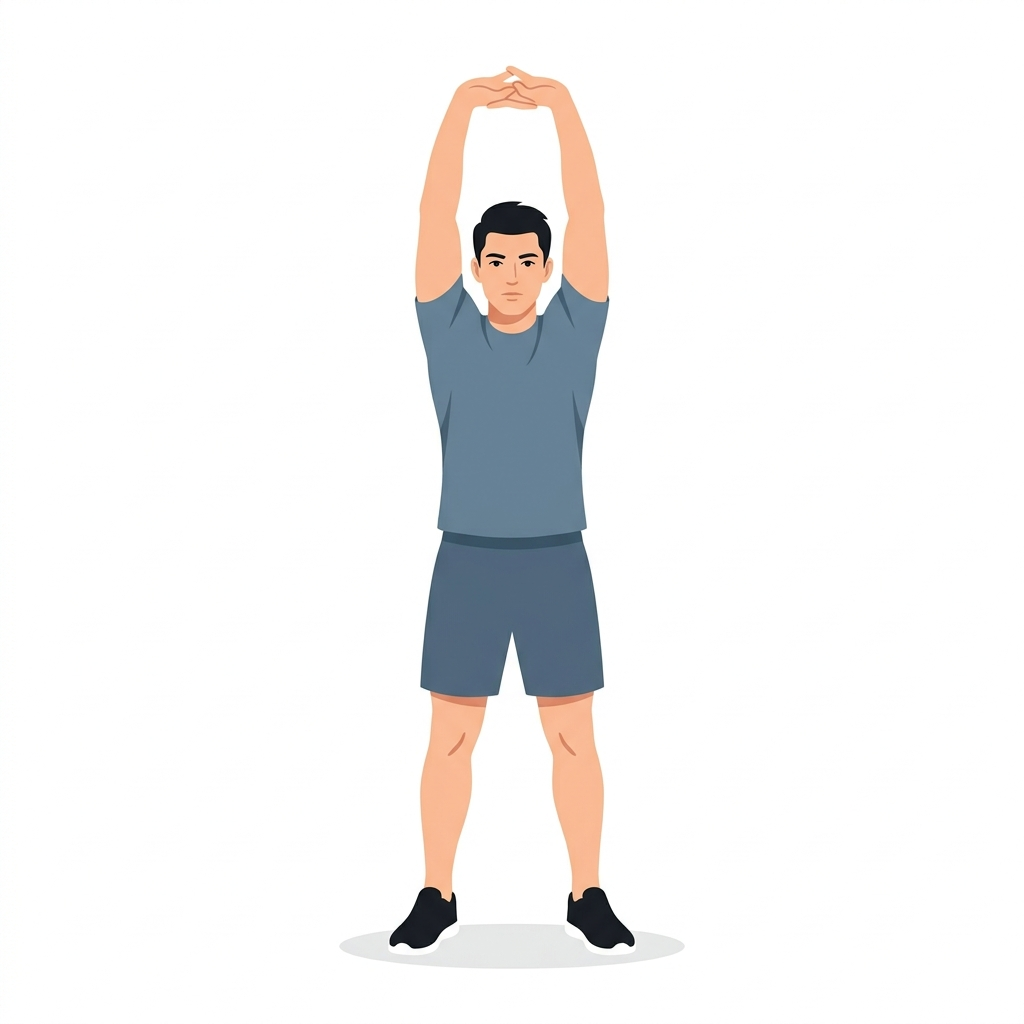
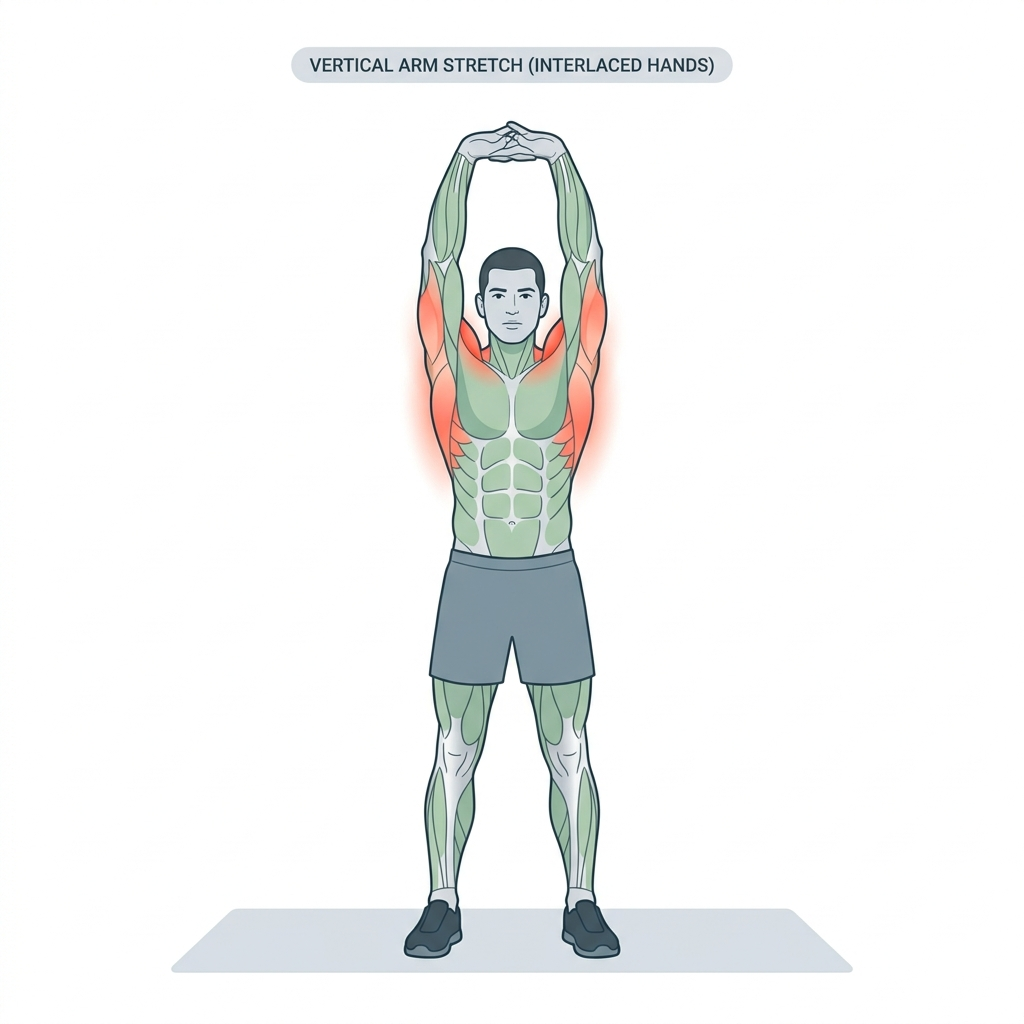
feat: complete overhaul of daily tips, relaxation cards UI, and restore anatomical asset ex-1

Changed region(s): [[0.1562, 0.0312, 0.8438, 0.9688]]

diff --git a/js/app.js b/js/app.js
@@ -16,181 +16,118 @@ document.addEventListener('DOMContentLoaded', () => {
   // ==========================================
   const DICAS_ERGONOMIA = [
     {
-      titulo: "Objetivo da Ergonomia",
-      desc: "A ergonomia tem como objetivo principal modificar as ferramentas, os móveis e o ambiente para que você trabalhe com conforto, segurança e eficiência, evitando dores e lesões.",
-      icon: "shield"
-    },
-    {
-      titulo: "O que é o Ergofisio?",
-      desc: "É um projeto desenvolvido pelo curso de fisioterapia com o foco principal de preservar a integridade física e mental dos colaboradores da UNIFG.",
-      icon: "activity"
-    },
-    {
-      titulo: "Cadeira Ergonômica",
-      desc: "O uso da cadeira ergonômica ajuda a reduzir a sobrecarga lombar durante a jornada laboral.",
-      icon: "armchair"
-    },
-    {
-      titulo: "Suporte para Notebook",
-      desc: "Ajustar a altura do monitor para ficar na linha dos olhos, e assim evitar a flexão da cervical e sobrecarga lombar.",
-      icon: "laptop"
-    },
-    {
-      titulo: "Suporte para os Pés",
-      desc: "Adicionar o apoio aos pés para garantir o retorno venoso, alinhamento adequado da coluna e quadril e evitar a compressão vascular.",
-      icon: "footprints"
-    },
-    {
-      titulo: "Mouse Pad e Teclado Pad",
-      desc: "Usar esses equipamentos evita a fadiga muscular e aumenta a estabilidade do punho.",
+      titulo: "Postura Neutra do Punho",
+      desc: "Evite manter o punho dobrado por muito tempo. O uso de mouse pad e teclado pad com apoio em gel ajuda a estabilizar o punho, prevenindo lesões.",
       icon: "keyboard"
     },
     {
-      titulo: "Alívio de Dores e Lesões",
-      desc: "Um dos grandes benefícios do alongamento é que ele alivia dores e previne lesões no seu dia a dia.",
-      icon: "heart"
-    },
-    {
-      titulo: "Alívio do Estresse",
-      desc: "Realizar alongamentos periodicamente alivia o estresse gerado pela rotina de trabalho.",
-      icon: "smile"
-    },
-    {
-      titulo: "Correção de Postura",
-      desc: "Fazer pausas ativas para se alongar corrige a postura e evita vícios posturais nocivos.",
-      icon: "accessibility"
-    },
-    {
-      titulo: "Redução da Rigidez",
-      desc: "O alongamento sistemático reduz a rigidez muscular, devolvendo a flexibilidade ao corpo.",
-      icon: "activity"
-    },
-    {
-      titulo: "Circulação Sanguínea",
-      desc: "Os exercícios fisioterapêuticos do Ergofisio melhoram a circulação sanguínea, oxigenando os músculos.",
-      icon: "refresh-cw"
-    },
-    {
-      titulo: "Redução do Cansaço",
-      desc: "Alongar-se ao longo da jornada laboral reduz significativamente o cansaço físico geral.",
-      icon: "zap"
-    },
-    {
-      titulo: "Mais Disposição",
-      desc: "A prática diária dos alongamentos do panfleto traz mais disposição para as suas atividades.",
-      icon: "sparkles"
-    },
-    {
-      titulo: "Prevenção de Tendinites",
-      desc: "A falta de ergonomia no trabalho pode levar a Lesões por Esforço Repetitivo (LER), como as dolorosas tendinites.",
-      icon: "alert-triangle"
-    },
-    {
-      titulo: "Prevenção de Bursites",
-      desc: "Trabalhar sem as adaptações adequadas no posto de trabalho pode causar bursites (LER).",
-      icon: "alert-triangle"
-    },
-    {
-      titulo: "Síndrome do Túnel do Carpo",
-      desc: "O esforço repetitivo sem o uso de mouse pad e teclado pad pode ocasionar a Síndrome do Túnel do Carpo.",
-      icon: "alert-circle"
-    },
-    {
-      titulo: "Lombalgia e Cervicalgia",
-      desc: "Sentar-se de forma incorreta ou sem suporte cervical sobrecarrega a coluna, gerando lombalgia e cervicalgia.",
-      icon: "shield-alert"
-    },
-    {
-      titulo: "Prevenção de Varizes",
-      desc: "Ficar longos períodos sem movimentar as pernas ou sem apoio para os pés pode gerar problemas circulatórios, como varizes.",
-      icon: "heart"
-    },
-    {
-      titulo: "Prevenção de Fadiga Visual",
-      desc: "Ajustar a altura da tela na linha dos olhos evita a fadiga visual e a flexão constante do pescoço.",
-      icon: "eye"
-    },
-    {
-      titulo: "Ansiedade e Depressão",
-      desc: "A falta de ergonomia e pausas saudáveis pode colaborar para transtornos psicológicos ocupacionais, como ansiedade e depressão.",
-      icon: "brain"
-    },
-    {
-      titulo: "Síndrome de Burnout",
-      desc: "Preservar a integridade física e mental é vital para evitar o esgotamento extremo ou Síndrome de Burnout.",
-      icon: "flame"
-    },
-    {
-      titulo: "Postura para Levantar Peso",
-      desc: "Ao levantar peso, dobre os joelhos e use a força das pernas mantendo a coluna totalmente ereta e a carga próxima ao corpo.",
-      icon: "arrow-up"
-    },
-    {
-      titulo: "Alinhamento Corporal de Pé",
-      desc: "Mantenha o alinhamento adequado dos ombros, pescoço e coluna durante a realização de atividades em pé.",
-      icon: "accessibility"
-    },
-    {
-      titulo: "Ajustes do Computador",
-      desc: "Ajuste seus móveis e ferramentas ergonômicas (como cadeira, monitor e suportes) de acordo com seu biotipo.",
+      titulo: "Ajuste a Altura do Monitor",
+      desc: "A borda superior da tela deve estar na altura dos seus olhos. Isso previne a fadiga visual e evita que você flexione constantemente o pescoço.",
       icon: "monitor"
     },
     {
-      titulo: "Postura na Direção",
-      desc: "Ao dirigir, mantenha braços e pernas levemente flexionados, quadris apoiados e o encosto firme na coluna.",
-      icon: "car"
+      titulo: "Uso do Suporte para os Pés",
+      desc: "Seus pés não devem ficar balançando. O suporte para pés melhora o retorno venoso, previne varizes e garante o alinhamento adequado do quadril.",
+      icon: "footprints"
     },
     {
-      titulo: "Alongamento Vertical (#1)",
-      desc: "Alongamento 1: Entrelace os dedos e estenda os braços verticalmente acima da cabeça para alongar braços e ombros.",
+      titulo: "Cadeira Ergonômica é Prevenção",
+      desc: "Sentar de forma incorreta sobrecarrega a coluna. Use o apoio lombar da sua cadeira para preservar a curvatura natural das costas e evitar a lombalgia.",
+      icon: "armchair"
+    },
+    {
+      titulo: "Descanse os Olhos (Regra 20-20-20)",
+      desc: "A cada 20 minutos olhando para a tela, olhe para algo a 6 metros de distância por 20 segundos. Isso previne a fadiga visual e o ressecamento.",
+      icon: "eye"
+    },
+    {
+      titulo: "Alinhamento ao Ficar em Pé",
+      desc: "Trabalha muito em pé? Seu peso deve estar distribuído igualmente nos dois pés. Mantenha os ombros relaxados e a coluna ereta.",
+      icon: "accessibility"
+    },
+    {
+      titulo: "Levantamento de Peso Seguro",
+      desc: "Sempre dobre os joelhos e use a força das pernas para levantar caixas ou pesos. Mantenha a carga o mais próxima possível do corpo.",
       icon: "arrow-up"
     },
     {
-      titulo: "Alongamento de Ombros (#2)",
-      desc: "Alongamento 2: Estenda um braço horizontalmente à frente do peito e puxe-o com a outra mão para alongar o ombro.",
-      icon: "activity"
+      titulo: "Atenção à LER e DORT",
+      desc: "As Lesões por Esforço Repetitivo surgem silenciosamente. Fazer pausas ativas e os alongamentos preventivos é o seu melhor remédio.",
+      icon: "alert-triangle"
     },
     {
-      titulo: "Alongamento de Peitoral (#3)",
-      desc: "Alongamento 3: Em pé ou sentado, entrelace as mãos atrás das costas e estique os braços, abrindo bem o peito.",
-      icon: "heart"
+      titulo: "A Postura na Direção",
+      desc: "Ao dirigir até o trabalho, não estique os braços totalmente. Mantenha-os levemente flexionados e encoste toda a coluna no banco.",
+      icon: "car"
     },
     {
-      titulo: "Alongamento de Tríceps (#4)",
-      desc: "Alongamento 4: Dobre o cotovelo atrás da cabeça e use a outra mão para puxar suavemente o cotovelo para baixo.",
-      icon: "heart"
-    },
-    {
-      titulo: "Alongamento Cervical (#5)",
-      desc: "Alongamento 5: Puxe suavemente a cabeça com a mão em direção ao ombro lateral para aliviar a tensão cervical.",
+      titulo: "Alongamento: Relaxando o Pescoço",
+      desc: "Sentindo tensão na nuca? Use o Alongamento Cervical (Alongamento 5). Puxe suavemente a cabeça em direção ao ombro e segure por 10 segundos.",
       icon: "smile"
     },
     {
-      titulo: "Alongamento cruzado (#6)",
-      desc: "Alongamento 6: Estenda um braço horizontalmente à frente do peito e puxe o cotovelo para evitar fadiga e dores.",
-      icon: "user"
-    },
-    {
-      titulo: "Alongamento de Panturrilha (#10)",
-      desc: "Alongamento 10: Dê um passo largo à frente, mantendo o calcanhar traseiro firme no chão para alongar a panturrilha.",
+      titulo: "Alongamento: Soltando os Punhos",
+      desc: "Digitou muito? Faça o Alongamento de Punhos (Alongamento 2). Estique o braço, e puxe a palma da mão e os dedos em sua direção para aliviar os tendões.",
       icon: "activity"
     },
     {
-      titulo: "Técnica de Relaxamento: Biquinho",
-      desc: "Sente-se ereto. Puxe o ar de forma lenta pelo nariz. Na hora de soltar, faça um biquinho com a boca para soltar o ar devagar. Repita 10 vezes.",
+      titulo: "Alongamento: Abrindo o Peitoral",
+      desc: "Nossa postura no PC tende a nos curvar para frente. O Alongamento de Peitoral (Alongamento 3) ajuda a realinhar a postura e abrir a caixa torácica.",
+      icon: "heart"
+    },
+    {
+      titulo: "Alongamento: Descomprimindo a Coluna",
+      desc: "O Alongamento Vertical (Alongamento 1) estende toda a cadeia muscular superior e laterais do tronco, realinhando a coluna após horas sentado.",
+      icon: "arrow-up"
+    },
+    {
+      titulo: "Alongamento: Membros Inferiores",
+      desc: "Sente as pernas pesadas? O Alongamento de Panturrilha (Alongamento 10) estimula a circulação sanguínea, reduzindo o cansaço no fim do dia.",
+      icon: "activity"
+    },
+    {
+      titulo: "Relaxamento: Biquinho (Técnica 1)",
+      desc: "Quando o estresse bater, puxe o ar lentamente pelo nariz e solte fazendo um biquinho com a boca. Isso harmoniza a saída do ar. Repita de 5 a 10 vezes.",
       icon: "wind"
     },
     {
-      titulo: "Técnica de Relaxamento: Respiração Diafragmática",
-      desc: "Coloque as mãos sobre a barriga. Respire devagar, inflando a barriga, contando até 5. Pause por 2 segundos e solte lentamente contando até 6.",
+      titulo: "Relaxamento: Respiração Diafragmática (Técnica 2)",
+      desc: "A respiração peitoral curta aumenta a ansiedade. Coloque as mãos na barriga e respire inflando-a. Solte devagar. Ajuda a reduzir a frequência cardíaca.",
       icon: "activity"
     },
     {
-      titulo: "Técnica de Relaxamento: Respiração Alternada",
-      desc: "Tampe a narina esquerda com o dedo e inspire pela direita contando até 5. Em seguida, solte o ar pela narina esquerda. Repita esse ciclo 5 vezes.",
+      titulo: "Relaxamento: Respiração Alternada (Técnica 3)",
+      desc: "Perdendo o foco? Tampe uma narina e inspire pela outra. Solte o ar pela primeira narina. Essa técnica melhora muito a concentração no trabalho.",
       icon: "waves"
+    },
+    {
+      titulo: "Saúde Mental Importa",
+      desc: "A Síndrome de Burnout é o esgotamento ocupacional extremo. Faça suas pausas preventivas e nunca ignore sinais constantes de exaustão.",
+      icon: "brain"
+    },
+    {
+      titulo: "O Poder da Circulação Sanguínea",
+      desc: "Você sabia que realizar os alongamentos oxigena os músculos e manda mais sangue para o seu cérebro? O resultado é muito mais disposição!",
+      icon: "refresh-cw"
+    },
+    {
+      titulo: "Benefícios Imediatos",
+      desc: "Lembre-se: o alongamento sistemático quebra a rigidez muscular quase que instantaneamente, devolvendo a flexibilidade ao seu corpo.",
+      icon: "sparkles"
     }
   ];
+
+  // ==========================================
+  // 1.B FUNÇÃO PARA CONTADOR DE RESPIRAÇÕES
+  // ==========================================
+  window.updateCounter = function(counterId, change) {
+    const counterElement = document.getElementById(counterId);
+    if (!counterElement) return;
+    let currentValue = parseInt(counterElement.textContent);
+    let newValue = currentValue + change;
+    if (newValue < 0) newValue = 0; // Não permite número negativo
+    counterElement.textContent = newValue;
+  };
 
   // ==========================================
   // 2. CONTROLE DO LOGOUT / DRAWER MÓVEL

diff --git a/index.html b/index.html
@@ -241,7 +241,7 @@
             <span class="badge">Alongamentos</span>
             <h2 class="section-title">Alongamentos</h2>
             <p class="section-description">
-              Rotina física preventiva para os colaboradores. Execute cada um dos 11 alongamentos ilustrados no panfleto físico.
+              Rotina física preventiva para os colaboradores. Execute cada um dos 12 alongamentos ilustrados no panfleto físico.
             </p>
           </div>
           
@@ -308,39 +308,54 @@
 
         <div class="grid grid-3 gap-lg mt-md">
           <!-- Técnica 1 -->
-          <div class="glass-card card-hover p-lg" style="background-color: var(--bg-light); border-radius: 20px; display: flex; flex-direction: column; align-items: center; justify-content: flex-start; text-align: center;">
+          <div class="glass-card card-hover" style="background-color: var(--bg-light); border-radius: 20px; display: flex; flex-direction: column; align-items: center; justify-content: flex-start; text-align: center; padding: 2.5rem; box-shadow: 0 4px 15px rgba(0,0,0,0.02);">
             <div class="icon-circle mb-sm" style="background-color: rgba(46, 107, 74, 0.1); color: var(--primary); padding: 15px; border-radius: 50%; display: inline-flex; justify-content: center; align-items: center;">
               <i data-lucide="wind" style="width: 32px; height: 32px;"></i>
             </div>
             <h3 class="exercise-title" style="margin-bottom: 16px; font-size: 1.15rem; width: 100%;">Técnica 1</h3>
-            <p class="exercise-desc" style="font-size: 0.95rem; text-align: left; line-height: 1.5; color: var(--text-light); width: 100%;">
+            <p class="exercise-desc" style="font-size: 0.95rem; text-align: left; line-height: 1.6; color: var(--text-light); width: 100%;">
               Sente em posição ereta. Pode ser no chão ou em uma cadeira.<br><br>
-              Puxe o ar pelo nariz, de forma lenta e profunda. Na hora de soltar, faça um biquinho com a boca, pois isso diminui o atrito do dente e da língua para a saída do ar e faz com que a respiração seja mais harmônica. Repita 10 vezes.
+              Puxe o ar pelo nariz, de forma lenta e profunda. Na hora de soltar, faça um biquinho com a boca, pois isso diminui o atrito do dente e da língua para a saída do ar e faz com que a respiração seja mais harmônica. Repita entre 5 e 10 vezes.
             </p>
+            <div class="counter-widget" style="margin-top: auto; padding-top: 1.5rem; display: flex; align-items: center; justify-content: center; gap: 15px;">
+              <button onclick="updateCounter('count-t1', -1)" aria-label="Diminuir" style="background: rgba(46, 107, 74, 0.1); border: none; border-radius: 50%; width: 32px; height: 32px; font-size: 1.2rem; color: var(--primary); cursor: pointer; display: flex; align-items: center; justify-content: center; transition: all 0.2s;">-</button>
+              <span id="count-t1" style="font-weight: 600; color: var(--text); font-size: 1.1rem; min-width: 20px;">0</span>
+              <button onclick="updateCounter('count-t1', 1)" aria-label="Aumentar" style="background: rgba(46, 107, 74, 0.1); border: none; border-radius: 50%; width: 32px; height: 32px; font-size: 1.2rem; color: var(--primary); cursor: pointer; display: flex; align-items: center; justify-content: center; transition: all 0.2s;">+</button>
+            </div>
           </div>
 
           <!-- Técnica 2 -->
-          <div class="glass-card card-hover p-lg" style="background-color: var(--bg-light); border-radius: 20px; display: flex; flex-direction: column; align-items: center; justify-content: flex-start; text-align: center;">
+          <div class="glass-card card-hover" style="background-color: var(--bg-light); border-radius: 20px; display: flex; flex-direction: column; align-items: center; justify-content: flex-start; text-align: center; padding: 2.5rem; box-shadow: 0 4px 15px rgba(0,0,0,0.02);">
             <div class="icon-circle mb-sm" style="background-color: rgba(46, 107, 74, 0.1); color: var(--primary); padding: 15px; border-radius: 50%; display: inline-flex; justify-content: center; align-items: center;">
               <i data-lucide="activity" style="width: 32px; height: 32px;"></i>
             </div>
             <h3 class="exercise-title" style="margin-bottom: 16px; font-size: 1.15rem; width: 100%;">Técnica 2</h3>
-            <p class="exercise-desc" style="font-size: 0.95rem; text-align: left; line-height: 1.5; color: var(--text-light); width: 100%;">
+            <p class="exercise-desc" style="font-size: 0.95rem; text-align: left; line-height: 1.6; color: var(--text-light); width: 100%;">
               Sente-se com as costas eretas ou deite. Coloque as mãos sobre a barriga.<br><br>
-              Respire devagar, aumentando a barriga, contando até cinco. Dê uma pausa de dois segundos. Exale lentamente, contando até seis. Pratique esse padrão de 10 a 20 minutos por dia.
+              Respire devagar, aumentando a barriga, contando até cinco. Dê uma pausa de dois segundos. Exale lentamente, contando até seis. Repita entre 5 e 10 vezes.
             </p>
+            <div class="counter-widget" style="margin-top: auto; padding-top: 1.5rem; display: flex; align-items: center; justify-content: center; gap: 15px;">
+              <button onclick="updateCounter('count-t2', -1)" aria-label="Diminuir" style="background: rgba(46, 107, 74, 0.1); border: none; border-radius: 50%; width: 32px; height: 32px; font-size: 1.2rem; color: var(--primary); cursor: pointer; display: flex; align-items: center; justify-content: center; transition: all 0.2s;">-</button>
+              <span id="count-t2" style="font-weight: 600; color: var(--text); font-size: 1.1rem; min-width: 20px;">0</span>
+              <button onclick="updateCounter('count-t2', 1)" aria-label="Aumentar" style="background: rgba(46, 107, 74, 0.1); border: none; border-radius: 50%; width: 32px; height: 32px; font-size: 1.2rem; color: var(--primary); cursor: pointer; display: flex; align-items: center; justify-content: center; transition: all 0.2s;">+</button>
+            </div>
           </div>
 
           <!-- Técnica 3 -->
-          <div class="glass-card card-hover p-lg" style="background-color: var(--bg-light); border-radius: 20px; display: flex; flex-direction: column; align-items: center; justify-content: flex-start; text-align: center;">
+          <div class="glass-card card-hover" style="background-color: var(--bg-light); border-radius: 20px; display: flex; flex-direction: column; align-items: center; justify-content: flex-start; text-align: center; padding: 2.5rem; box-shadow: 0 4px 15px rgba(0,0,0,0.02);">
             <div class="icon-circle mb-sm" style="background-color: rgba(46, 107, 74, 0.1); color: var(--primary); padding: 15px; border-radius: 50%; display: inline-flex; justify-content: center; align-items: center;">
               <i data-lucide="waves" style="width: 32px; height: 32px;"></i>
             </div>
             <h3 class="exercise-title" style="margin-bottom: 16px; font-size: 1.15rem; width: 100%;">Técnica 3</h3>
-            <p class="exercise-desc" style="font-size: 0.95rem; text-align: left; line-height: 1.5; color: var(--text-light); width: 100%;">
+            <p class="exercise-desc" style="font-size: 0.95rem; text-align: left; line-height: 1.6; color: var(--text-light); width: 100%;">
               Com a ajuda do dedo indicador tampe a narina esquerda e inspire pela outra narina (contando até cinco).<br><br>
-              Na sequência, a narina que "puxou" o ar deve ser usada para "soltá-lo". Repita o procedimento cinco vezes.
+              Na sequência, a narina que "puxou" o ar deve ser usada para "soltá-lo". Repita entre 5 e 10 vezes.
             </p>
+            <div class="counter-widget" style="margin-top: auto; padding-top: 1.5rem; display: flex; align-items: center; justify-content: center; gap: 15px;">
+              <button onclick="updateCounter('count-t3', -1)" aria-label="Diminuir" style="background: rgba(46, 107, 74, 0.1); border: none; border-radius: 50%; width: 32px; height: 32px; font-size: 1.2rem; color: var(--primary); cursor: pointer; display: flex; align-items: center; justify-content: center; transition: all 0.2s;">-</button>
+              <span id="count-t3" style="font-weight: 600; color: var(--text); font-size: 1.1rem; min-width: 20px;">0</span>
+              <button onclick="updateCounter('count-t3', 1)" aria-label="Aumentar" style="background: rgba(46, 107, 74, 0.1); border: none; border-radius: 50%; width: 32px; height: 32px; font-size: 1.2rem; color: var(--primary); cursor: pointer; display: flex; align-items: center; justify-content: center; transition: all 0.2s;">+</button>
+            </div>
           </div>
         </div>
       </div>